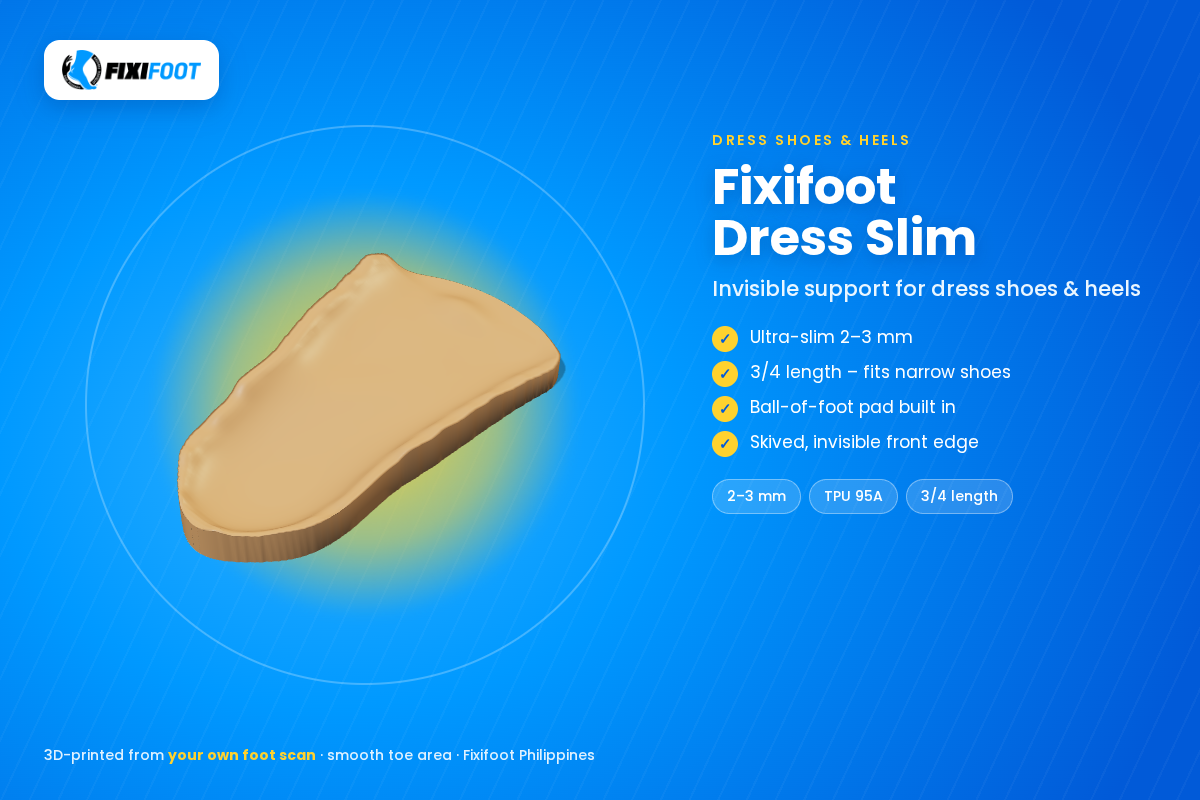
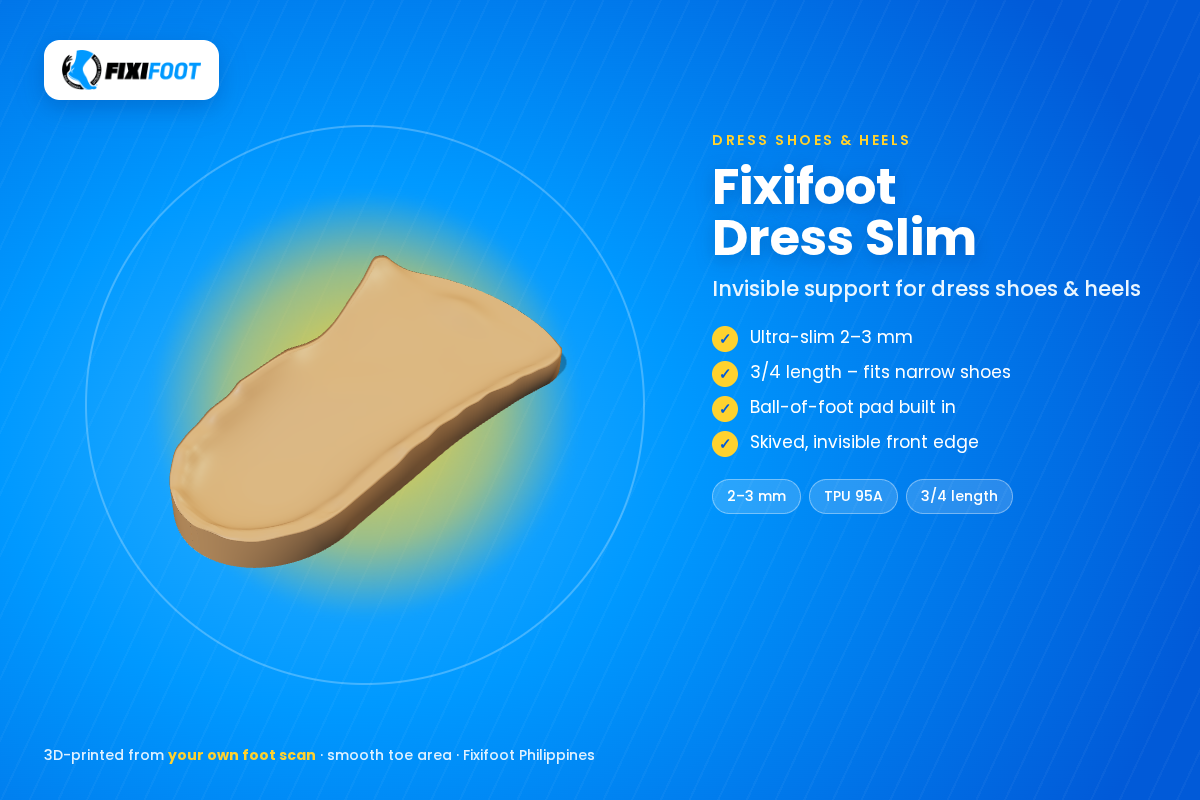
v8.2: correct L/R foot preview layout + view, classic insole outline

diff --git a/fit.js b/fit.js
@@ -7,7 +7,7 @@
 //  fitCheck:         rasterises the actual product top surface and measures the gap to the scan (mm)
 import * as THREE from 'three';
 import { mergeVertices, mergeGeometries } from 'three/addons/BufferGeometryUtils.js';
-import { holesTexture, hexTexture, zoneHit, heatColor } from './geometry.js';
+import { holesTexture, hexTexture, zoneHit, heatColor, insoleShape } from './geometry.js';
 import { buildOpenSole, rowSampler, defaultAllow } from './openings.js';
 
 const smooth = (a, b, x) => { const t = Math.min(1, Math.max(0, (x - a) / (b - a))); return t * t * (3 - 2 * t); };
@@ -340,12 +340,21 @@ function insoleFrame(md, kind, lastLen, frontU = null) {
   const a = ALLOW[kind] || ALLOW.insole;
   let toe = a.toe; if (lastLen) toe = Math.max(2, lastLen - md.L - a.heel);
   const zBack = md.zHeel + a.heel, zFront = frontU != null ? md.zOfU(frontU) : md.zToe - toe, Li = zBack - zFront; // v7: 3/4 length ends at frontU
-  const Rb = .5 * md.heelW + a.side, Rf = .32 * md.W + a.side;
-  const edge = ui => { // lateral/medial x of the outline at insole-u
-    const z = zBack - ui * Li, r = md.rowAt(z), c = (r.lo + r.hi) / 2, dB = zBack - z, dF = z - zFront;
-    let half = (r.hi - r.lo) / 2 + a.side;
-    if (dB < Rb) half *= Math.sqrt(Math.max(0, 1 - ((Rb - dB) / Rb) ** 2)); if (dF < Rf) half *= Math.sqrt(Math.max(0, 1 - ((Rf - dF) / Rf) ** 2));
-    half = Math.max(half, 1.5);
+  // v8.2: clean, fair insole outline instead of the raw (smoothed) scan silhouette. The canonical insole-last shape
+  // (geometry.insoleShape) is laid on a straight axis through the scanned heel centre and ball centre, scaled to the scanned
+  // ball width (+ side allowance) and, in the rearfoot, to the scanned heel width. Ball row of the shape = scanned ball line.
+  const zB = md.zOfU(md.ballU), rbB = md.rowAt(zB), rbH = md.rowAt(md.zOfU(.15)), cBx = (rbB.lo + rbB.hi) / 2, cHx = (rbH.lo + rbH.hi) / 2;
+  const zH = md.zOfU(.15), axisX = z => cHx + (cBx - cHx) * (z - zH) / ((zB - zH) || 1);
+  const zEnd = md.zToe - (frontU != null ? (lastLen ? Math.max(2, lastLen - md.L - a.heel) : a.toe) : toe), LiF = zBack - zEnd; // full-length insole (3/4 = truncated copy)
+  const Wb = md.W + 2 * a.side, uBall = clamp((zBack - zB) / LiF, .55, .85);
+  const heelK = clamp((md.heelW + 2 * a.side) / (.72 * Wb), .85, 1.15);
+  const Rf = .28 * Wb;
+  const edge = ui => { // lateral/medial x of the outline at insole-u (0 = heel end, 1 = front end of THIS insole)
+    const z = zBack - ui * Li, uf = (zBack - z) / LiF, q = insoleShape(uf, uBall), k = Wb * (heelK + (1 - heelK) * smooth(.22, .55, uf));
+    let mm = q.m * k, ll = q.l * k;
+    if (frontU != null) { const dF = z - zFront; if (dF < Rf) { const f = Math.sqrt(Math.max(0, 1 - ((Rf - dF) / Rf) ** 2)), cc = (mm - ll) / 2; mm = cc + (mm - cc) * f; ll = -cc + (ll + cc) * f; } } // 3/4: rounded front corners
+    let half = Math.max((mm + ll) / 2, 1.5);
+    const c = axisX(z) + md.medialX * (mm - ll) / 2;
     return { c, half, xM: c + md.medialX * half, xL: c - md.medialX * half, z };
   };
   return { zBack, zFront, Li, edge, allow: { ...a, toe } };

diff --git a/geometry.js b/geometry.js
@@ -18,9 +18,29 @@ function interp(tab, u) {
   const m1 = (p2[1] - p0[1]) / 2, m2 = (p3[1] - p1[1]) / 2, t2 = t * t, t3 = t2 * t;
   return (2 * t3 - 3 * t2 + 1) * p1[1] + (t3 - 2 * t2 + t) * m1 + (-2 * t3 + 3 * t2) * p2[1] + (t3 - t2) * m2;
 }
+// v8.2 – canonical INSOLE outline (classic insole-last shape, like the Fixifoot L90/S90 templates): narrow rounded heel,
+// gentle waist at the arch (medial curve a little deeper), widest at the metatarsal heads, rounded toe end with the apex
+// slightly medial. Returns medial / lateral distances from a straight heel->toe axis as fractions of the BALL width.
+// uB = where the ball (widest row) sits on 0..1. Smooth everywhere (Hermite table + analytic rounded ends) -> a fair curve.
+const ISM = [[0, .345], [.17, .35], [.30, .325], [.42, .305], [.55, .37], [.66, .455], [.70, .48]];
+const ISL = [[0, .365], [.17, .37], [.30, .385], [.42, .395], [.55, .44], [.66, .505], [.70, .52]];
+export function insoleShape(u, uB = .70) {
+  u = Math.min(1, Math.max(0, u));
+  const v = u <= uB ? u * .70 / uB : .70 + (u - uB) * .30 / (1 - uB); // ball row -> canonical .70
+  if (v <= .70) {
+    let m = interp(ISM, v), l = interp(ISL, v);
+    const hR = .17; if (v < hR) { const e = Math.sqrt(Math.max(0, 1 - ((hR - v) / hR) ** 2)); m *= e; l *= e; } // round heel
+    return { m, l };
+  }
+  const t = (v - .70) / .30, sh = .075 * t ** 1.6; // rounded toe, apex shifted to the medial side
+  const m = .48 * Math.pow(Math.max(0, 1 - t ** 2.5), 1 / 2.5) + sh, l = .52 * Math.pow(Math.max(0, 1 - t ** 1.85), 1 / 1.85) - sh;
+  return { m, l };
+}
 export function outline(u, W, opt = {}) {
   const k = W / 0.95;
-  let m = interp(MED, u) * k, l = interp(LAT, u) * k;
+  let m, l;
+  if (opt.insole) { const q = insoleShape(u, opt.ballU ?? .71); m = q.m * W; l = -q.l * W; } // v8.2 clean insole outline (W = ball width)
+  else { m = interp(MED, u) * k; l = interp(LAT, u) * k; } // anatomical foot outline (3D foot, footprint)
   if (opt.extraFore) { const f = smooth(.55, .7, u) * (1 - smooth(.92, 1, u)) * opt.extraFore / 2; m += f; l -= f; }
   if (opt.lateralFlare) l -= 3 * (1 - smooth(.25, .42, u)) * smooth(0, .06, u);
   return { m, l };
@@ -235,7 +255,7 @@ function buildSoleParam(opts) {
   const rows = [];
   for (let i = 0; i < NU; i++) {
     const t = i / (NU - 1), u = 0.003 + (uMax - 0.003) * (0.5 - 0.5 * Math.cos(Math.PI * t));
-    let { m, l } = outline(u, W, { extraFore: p.forefootExtraWidth || 0, lateralFlare: p.lateralFlare });
+    let { m, l } = outline(u, W, { insole: true, extraFore: p.forefootExtraWidth || 0, lateralFlare: p.lateralFlare });
     if (uMax < .99) { const rf = .07, d = u - (uMax - rf); if (d > 0) { const f = Math.sqrt(Math.max(0.0004, 1 - (d / rf) ** 2)), c = (m + l) / 2; m = c + (m - c) * f; l = c + (l - c) * f; } } // rounded 3/4 front
     const hw = (m - l) / 2, bz = flatBottom ? 0 : bottomHeight(u, p, kind), row = [];
     for (let j = 0; j < NV; j++) {

diff --git a/app.js b/app.js
@@ -107,7 +107,8 @@ class Viewer {
   // preset camera views for the free (trackball) viewer. medialX = which x direction is the inside of the foot
   view(name, animate = true, medialX = -1) {
     if (!this.obj) return;
-    const D = { iso: [[-0.55, 0.62, -1], [0, 1, 0]], top: [[0, 1, 0.0001], [0, 0, -1]], bottom: [[0, -1, 0.0001], [0, 0, -1]], inside: [[medialX, 0.08, 0], [0, 1, 0]], outside: [[-medialX, 0.08, 0], [0, 1, 0]], back: [[0, 0.12, 1], [0, 1, 0]], front: [[0, 0.12, -1], [0, 1, 0]] }[name] || [[-0.55, 0.62, -1], [0, 1, 0]];
+    const D = { iso: [[0.16, 1, 0.5], [0, 1, 0]], // v8.2: default 3/4 view from behind/above (the person's own view: Left foot left, big toes inside)
+       top: [[0, 1, 0.0001], [0, 0, -1]], bottom: [[0, -1, 0.0001], [0, 0, -1]], inside: [[medialX, 0.08, 0], [0, 1, 0]], outside: [[-medialX, 0.08, 0], [0, 1, 0]], back: [[0, 0.12, 1], [0, 1, 0]], front: [[0, 0.12, -1], [0, 1, 0]] }[name] || [[0.16, 1, 0.5], [0, 1, 0]];
     const dir = new THREE.Vector3(...D[0]).normalize(), up = new THREE.Vector3(...D[1]);
     const fit = this.radius / Math.sin(THREE.MathUtils.degToRad(this.camera.fov / 2)) * (this.camera.aspect < 1 ? 1.0 / Math.max(.62, this.camera.aspect) * 0.8 : 0.95);
     const p1 = this.home.clone().addScaledVector(dir, fit);
@@ -288,7 +289,7 @@ function renderFoot() {
   if (state.previewSide !== 'both' && !state.feet[state.previewSide]) state.previewSide = 'both';
   const sides = state.previewSide === 'both' ? avail : [state.previewSide];
   const g = new THREE.Group(), labels = [];
-  sides.forEach(s => { const o = footObject(s), f = state.feet[s]; if (sides.length > 1) o.position.x = (s === 'R' ? -1 : 1) * 68; g.add(o); labels.push({ text: sideName(s), pos: new THREE.Vector3(o.position.x, f.length * 0.5, 0) }); });
+  sides.forEach(s => { const o = footObject(s), f = state.feet[s]; if (sides.length > 1) o.position.x = (s === 'R' ? 1 : -1) * 68; /* v8.2: anatomical layout – right foot on +x (screen right when seen from behind/above, as the person sees their own feet) */ g.add(o); labels.push({ text: sideName(s), pos: new THREE.Vector3(o.position.x, f.length * 0.5, 0) }); });
   footViewer.set(g, false);
   footViewer.setLabels(labels);
   footViewer.medialX = sides.length === 1 && sides[0] === 'L' ? 1 : -1;

diff --git a/sw.js b/sw.js
@@ -1,5 +1,5 @@
 // Fixifoot demo – network-first service worker (offline fallback to last cached copy)
-const CACHE = 'fixifoot-demo-v8-1';
+const CACHE = 'fixifoot-demo-v8-2';
 self.addEventListener('install', e => self.skipWaiting());
 self.addEventListener('activate', e => e.waitUntil(caches.keys().then(ks => Promise.all(ks.filter(k => k !== CACHE).map(k => caches.delete(k)))).then(() => self.clients.claim())));
 self.addEventListener('fetch', e => {
